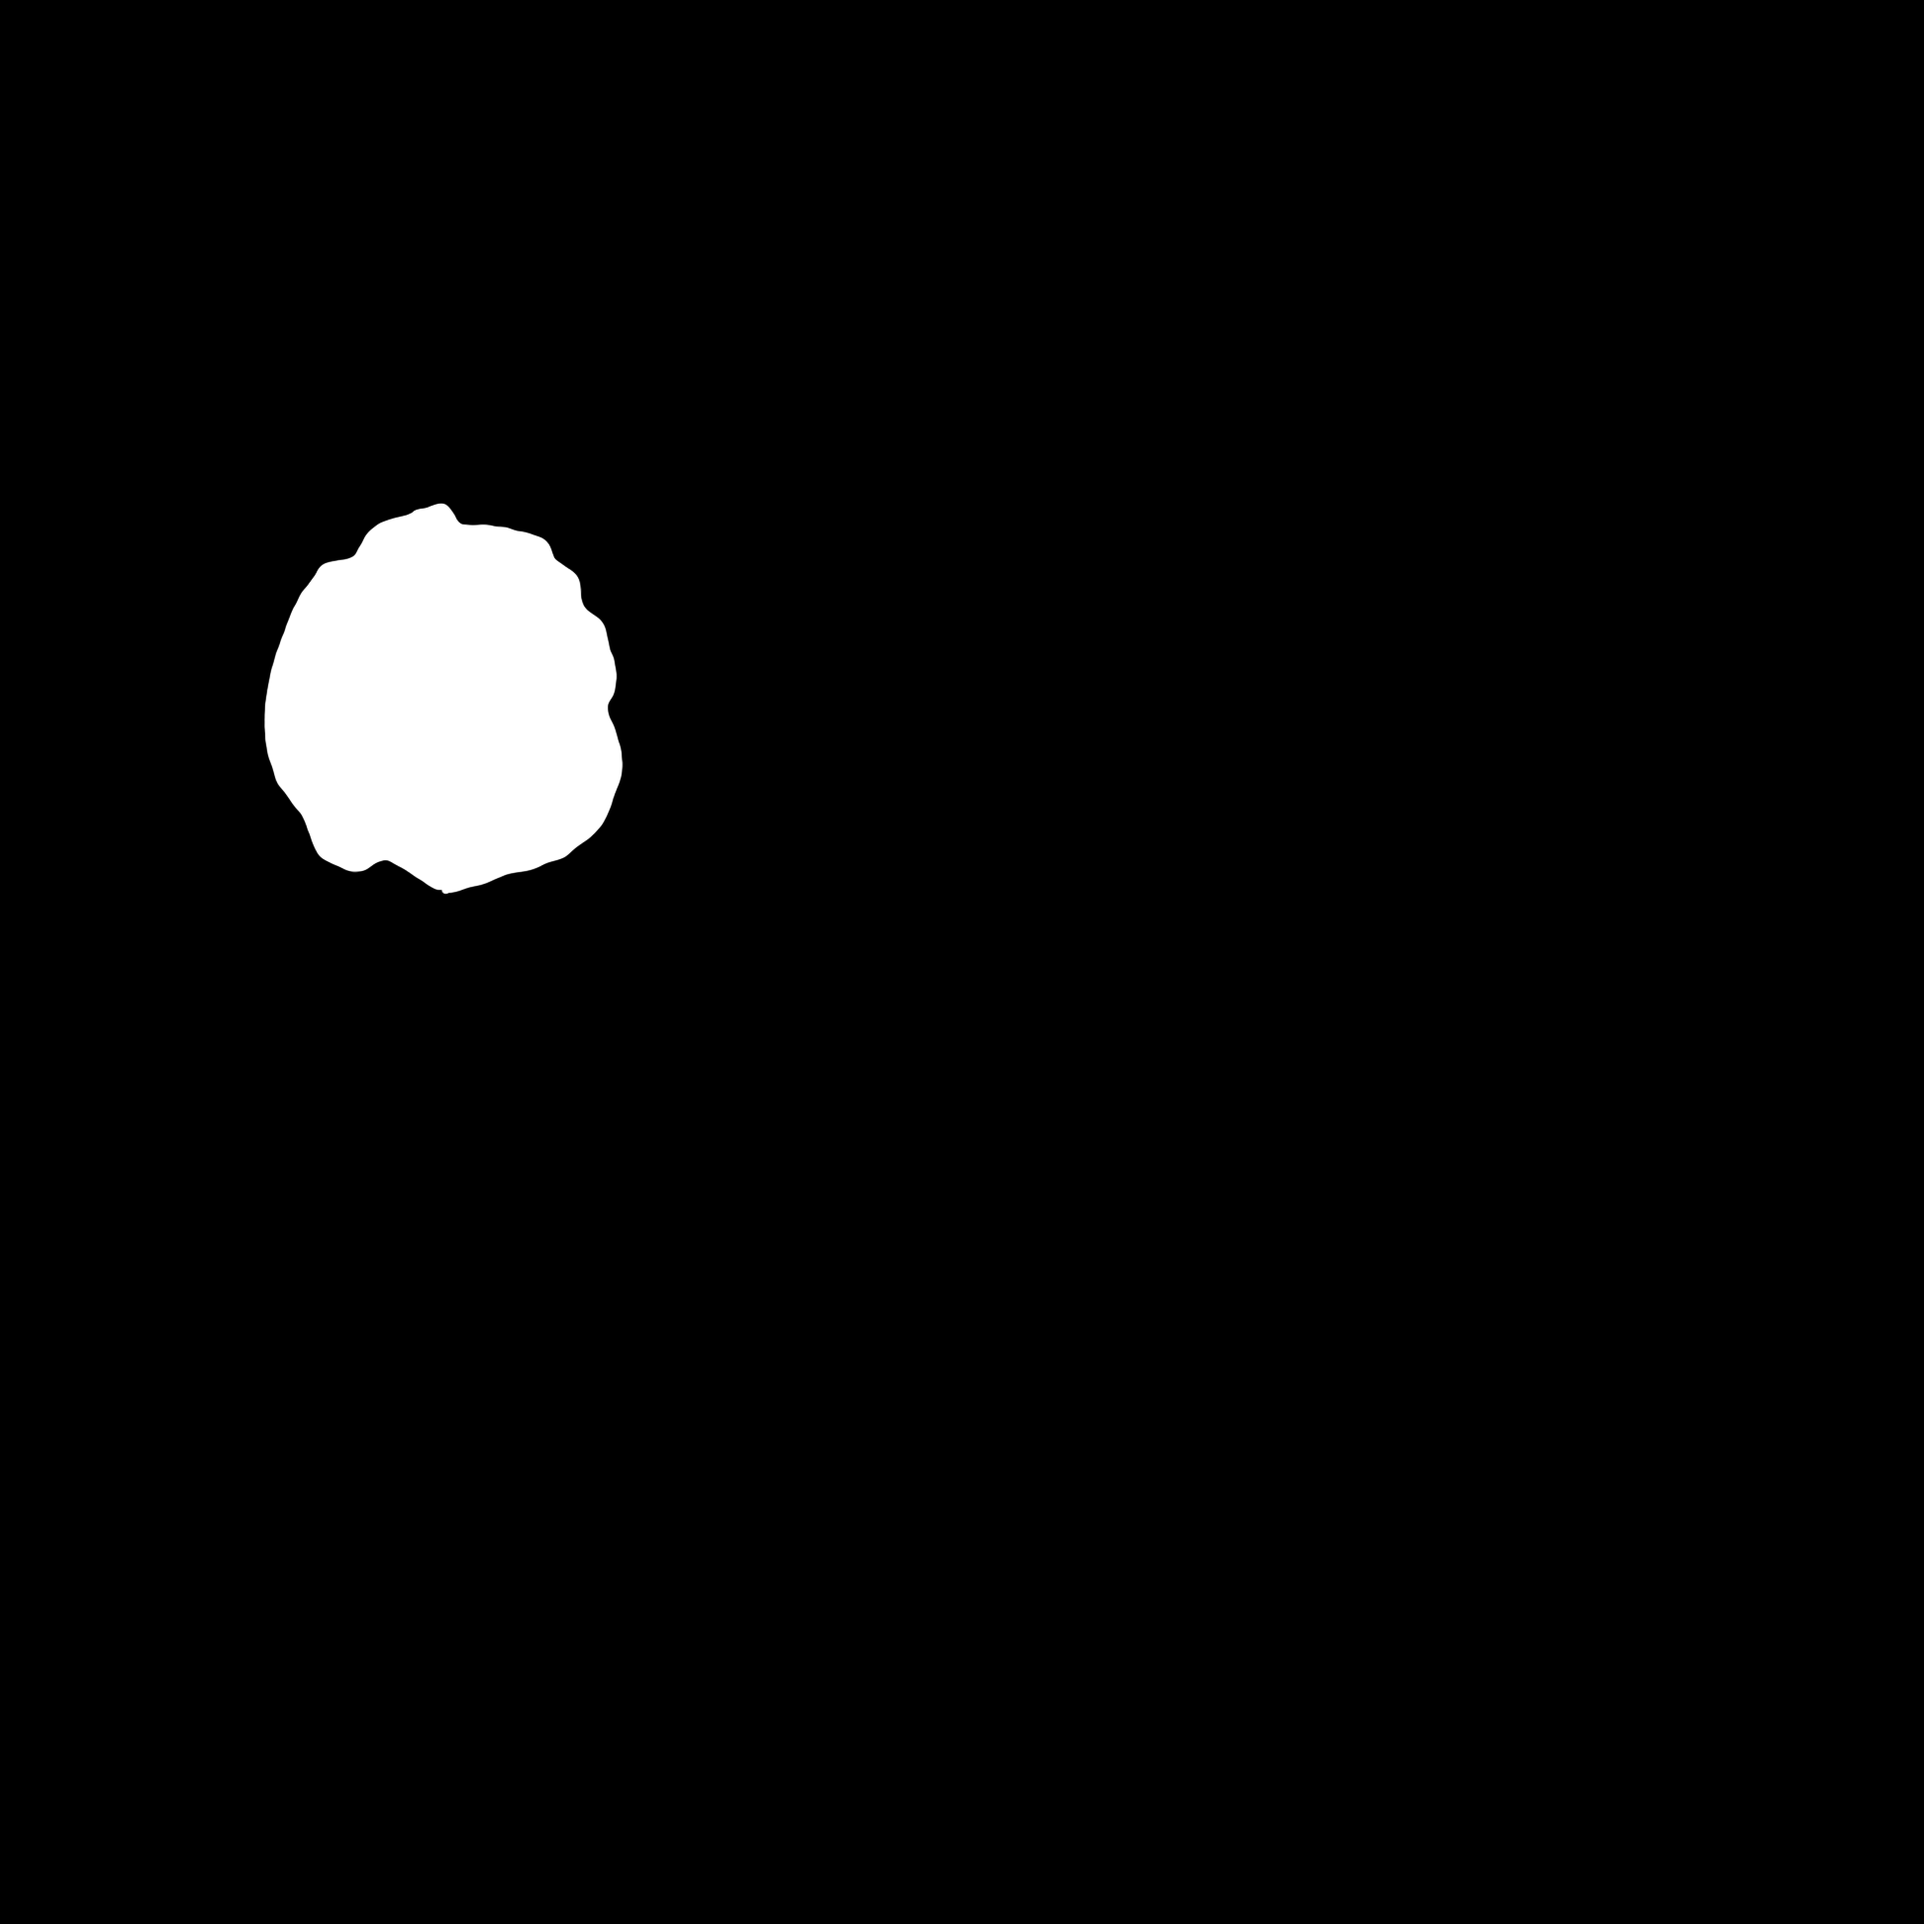
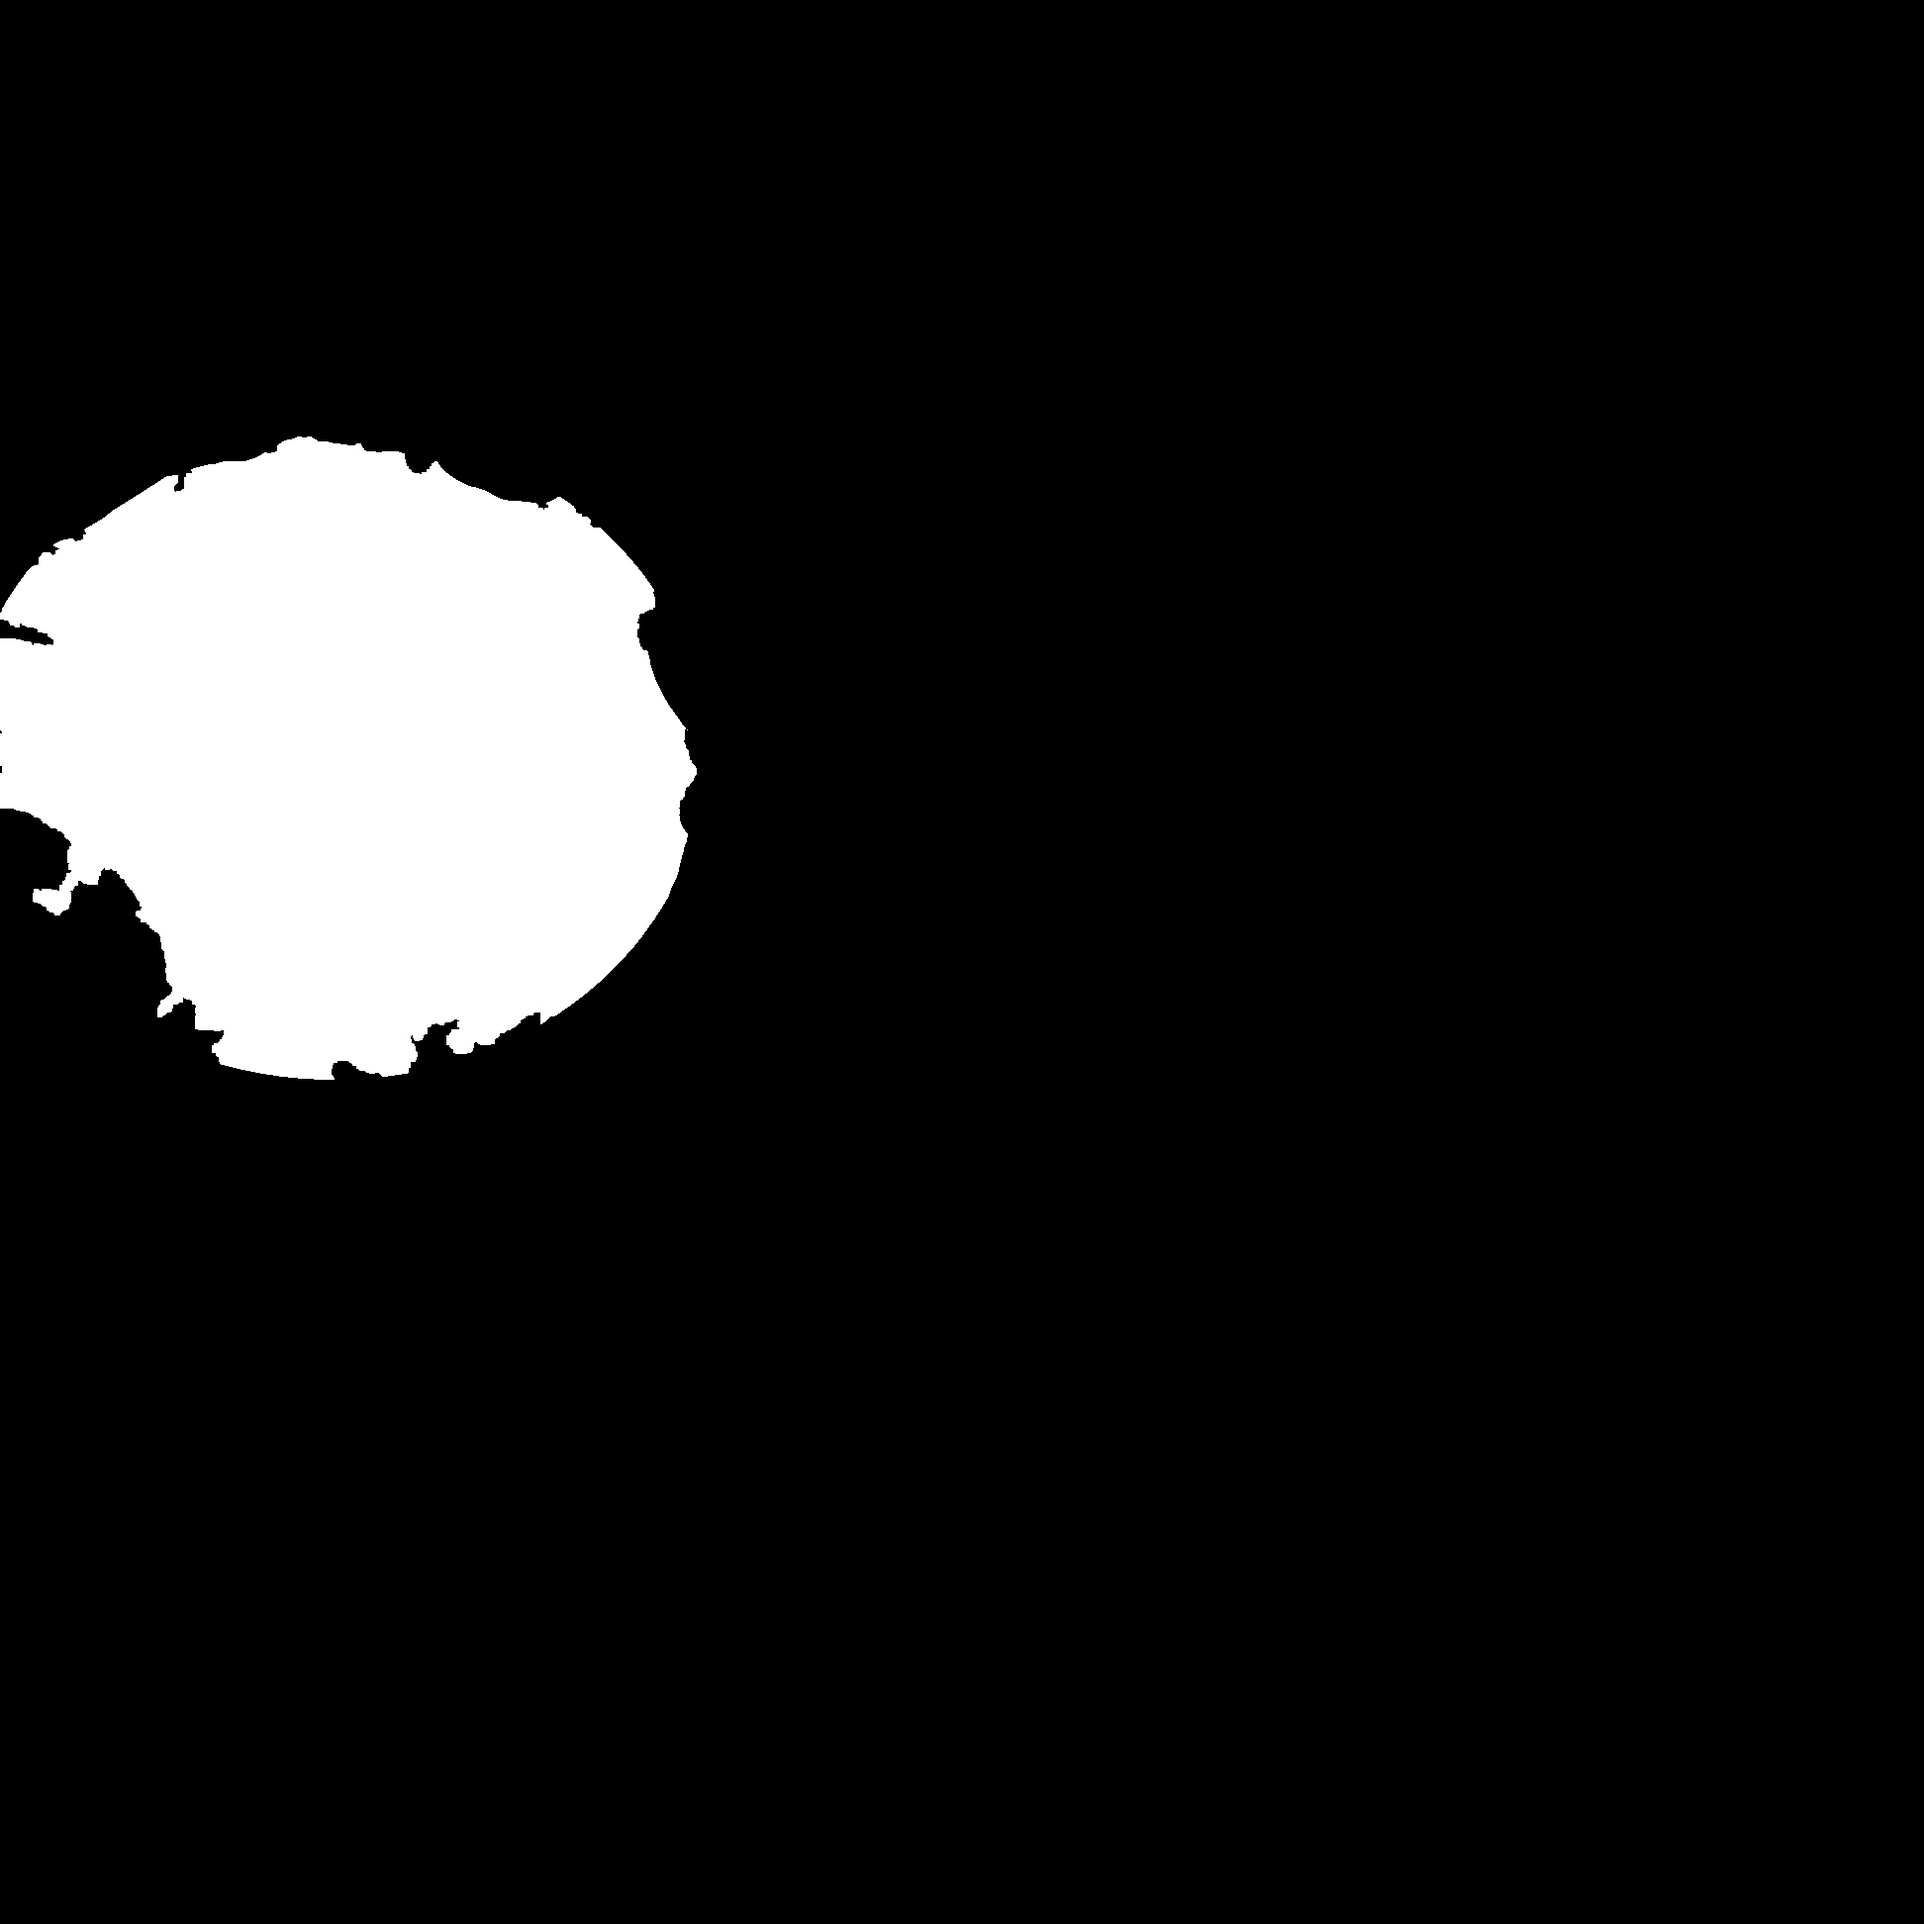
Verion 2 Fixed

Changed region(s): [[0.0, 0.216, 0.3704, 0.5864], [0.0, 0.463, 0.0309, 0.4938]]

diff --git a/V1.1.py b/V1.1.py
@@ -1,0 +1,124 @@
+import cv2
+import numpy as np
+import cvzone
+from cvzone.ColorModule import ColorFinder
+
+#Calculate the distance between two given points
+def distanceCalculate(p1, p2):
+    #p1 and p2 in format (x1,y1) and (x2,y2) tuples
+    dis = ((p2[0] - p1[0]) ** 2 + (p2[1] - p1[1]) ** 2) ** 0.5
+    return dis
+
+#Calculate de Center of a contour polygon
+def polygonCenter (contour):
+    peri = cv2.arcLength(contour, True)
+    approx = cv2.approxPolyDP(contour, 0.02 * peri, True)
+    x, y, w, h = cv2.boundingRect(approx)
+    cx, cy = x + (w // 2), y + (h // 2)
+    return cx, cy
+
+#Pre Process Method
+def coreIdentification(brgImg):
+    #Reding input image
+    img = cv2.cvtColor(brgImg, cv2.COLOR_BGR2GRAY)
+    #Apply threshold
+    ret1,th1 = cv2.threshold(img,0,255,cv2.THRESH_BINARY+cv2.THRESH_OTSU)
+    #Invert mask
+    th1 = cv2.bitwise_not(th1)
+    #Find contours
+    contours, hierarchy = cv2.findContours(th1, cv2.RETR_EXTERNAL, cv2.CHAIN_APPROX_NONE)
+    #Draw contours
+    cv2.drawContours(th1,contours, -1, color=(255,255,255),thickness=cv2.FILLED)
+    #Filter by area
+    minArea = 7000
+    for i in range(len(contours)):
+        cnt = contours[i]
+        area = cv2.contourArea(cnt)
+        if area < minArea:
+            cv2.drawContours(th1,contours,i,color=(0,0,0),thickness=cv2.FILLED)
+    #Update Contours
+    contours, hierarchy = cv2.findContours(th1, cv2.RETR_EXTERNAL, cv2.CHAIN_APPROX_NONE)
+    #Hough Transform to check roundiness
+    cores = cv2.HoughCircles(th1, cv2.HOUGH_GRADIENT, 1, 160, param1=50, param2=6, minRadius=110, maxRadius=120)
+    #Blank Mask
+    mask = np.zeros((1944,1944 , 1), dtype = np.uint8)
+    if cores is not None:
+        cores = np.uint16(np.around(cores))
+        for (x,y,r ) in cores[0,:]:
+            for i in range(len(contours)):
+                cnt = contours[i]
+                if 1 ==  cv2.pointPolygonTest(cnt,(x,y),False):
+                    cv2.drawContours(mask,contours,i,color=(255,255,255),thickness=cv2.FILLED)
+    #Update Contours
+    contours, hierarchy = cv2.findContours(mask, cv2.RETR_EXTERNAL, cv2.CHAIN_APPROX_NONE)
+    #GOTO: Cytoplasm Identification
+    cytoplasmIdentification(mask,brgImg)
+
+    #Cytoplasm Identification
+def cytoplasmIdentification (coreMask,brgImg):
+    #Writing the imge's HLS version
+    cv2.imwrite('hls.jpg',cv2.cvtColor(brgImg, cv2.COLOR_RGB2HLS))
+    myColorFinder = ColorFinder(False)
+    # Custom Color
+    hsvVals = {'hmin': 70 , 'smin': 0, 'vmin': 0, 'hmax': 150, 'smax': 200, 'vmax': 255}
+    #Color Detection
+    imgColor, mask = myColorFinder.update(cv2.imread('hls.jpg'),hsvVals)
+    #Finding Contours in the cytoplasm mask
+    contours, hierarchy = cv2.findContours(mask, cv2.RETR_EXTERNAL, cv2.CHAIN_APPROX_NONE)
+    #Cleaning the mask
+    minArea =7000
+    for i in range(len(contours)):
+        if cv2.contourArea(contours[i])<minArea:
+            cv2.drawContours(mask,contours,i,color=(0,0,0),thickness=cv2.FILLED)
+        else:
+            cv2.drawContours(mask,contours,i,color=(255,255,255),thickness=cv2.FILLED)
+    #Update Cytoplasm Contours
+    cytoCnts, cytoHierarchy = cv2.findContours(mask, cv2.RETR_EXTERNAL, cv2.CHAIN_APPROX_NONE)
+    #Update Core Contours
+    coreCnts, coreHierarchy = cv2.findContours(coreMask, cv2.RETR_EXTERNAL, cv2.CHAIN_APPROX_NONE)
+    #Blank mask
+    mask2 = np.zeros((1944,1944 , 1), dtype = np.uint8)
+    #Join the Masks
+    for i in range(len(cytoCnts)):
+        for j in range(len(coreCnts)):
+            if (distanceCalculate(polygonCenter(cytoCnts[i]),polygonCenter(coreCnts[j]))<400):
+                cv2.drawContours(mask2,cytoCnts,i,color=(255,255,255),thickness=cv2.FILLED)
+                cv2.drawContours(mask2,coreCnts,j,color=(255,255,255),thickness=cv2.FILLED)
+    #filtering the way too big contours detected
+    macpCnt, macpHierarchy = cv2.findContours(coreMask, cv2.RETR_EXTERNAL, cv2.CHAIN_APPROX_NONE)
+    for i in range(len(macpCnt)):     #328123
+        if(cv2.contourArea(macpCnt[i])>300000):
+            cv2.drawContours(mask2,macpCnt,i,color=(0,0,0),thickness=cv2.FILLED)
+        if(cv2.contourArea(macpCnt[i])<70000):
+            cv2.drawContours(mask2,macpCnt,i,color=(0,0,0),thickness=cv2.FILLED)
+    #TEST
+    cv2.imwrite('hlsTest.jpg',imgColor)
+    cv2.imwrite('CytoMask.jpg',mask2)
+    #GOTO Processing Images
+    processImage(mask2,brgImg)
+
+#Processing Images
+def processImage(mask, brgImg):
+    print('\n'+"Macrophages Identification V3")
+    #Finfing the Contours
+    imgContours, conFound =  cvzone.findContours(brgImg,mask,minArea=50000)
+    #Defining what will be a macophag for us
+    macrophages = 0
+    if conFound:
+        for contour in conFound:
+            macrophages+=1
+            peri = cv2.arcLength(contour['cnt'], True)
+            approx = cv2.approxPolyDP(contour['cnt'], 0.02 * peri, True)
+            area = contour['area']
+            center = contour['center']
+            print ("area: "+str(area)+'\n'+"center: "+str(center))
+    print("total detected: "+str(macrophages))
+    cv2.imwrite('Contours.jpg',imgContours)
+
+#HSV COLORS
+#L19_M1_C4.png
+#{'hmin': 0 , 'smin': 0, 'vmin': 0, 'hmax': 115, 'smax': 70, 'vmax': 255}
+#L3_M2_C12.png
+#hsvVals = {'hmin': 70 , 'smin': 0, 'vmin': 0, 'hmax': 150, 'smax': 200, 'vmax': 255}
+
+coreIdentification(cv2.imread('L3_M2_C12.png'))

diff --git a/MacrophagesIdentification.py b/MacrophagesIdentification.py
@@ -71,7 +71,7 @@ def cytoplasmIdentification (img, coreMask, coreImgColor, cores):
     myColorFinder = ColorFinder(False)
     # Custom Color
     #hsv(285, 20%, 86%)
-    hsvVals = {'hmin': 14, 'smin': 29, 'vmin': 60, 'hmax': 360, 'smax': 360, 'vmax': 360}
+    hsvVals = {'hmin': 14, 'smin': 29, 'vmin': 60, 'hmax': 360, 'smax': 255, 'vmax': 255}
     #Color Detection
     imgColor, mask = myColorFinder.update(img,hsvVals)
     cv2.imwrite('CytoplasmColored.jpg',imgColor)
@@ -117,63 +117,15 @@ def cytoplasmIdentification (img, coreMask, coreImgColor, cores):
         for j in range(len(contours)):
             #Cytoplasm center
             x, y = polygonCenter(contours[j])
-            if 200 > distanceCalculate((x,y),(cx,cy)):
+            print(distanceCalculate((x,y),(cx,cy)))
+            if 450 > distanceCalculate((x,y),(cx,cy)):
                 cv2.drawContours(mask2,contours,j,color=(255,255,255),thickness=cv2.FILLED)
                 cv2.drawContours(mask2,cores,i,color=(255,255,255),thickness=cv2.FILLED)
 
     cv2.imwrite('MacropMask.jpg',mask2)
 
     return mask2
-
-#Dynamic thresholding
-def dynamicThresholding ():
-    #Reding input image
-    img = cv2.imread('L19_M1_C2.png', cv2.IMREAD_GRAYSCALE)
-    #Apply threshold
-    ret1,th1 = cv2.threshold(img,0,255,cv2.THRESH_BINARY+cv2.THRESH_OTSU)
-    #Invert mask
-    th1 = cv2.bitwise_not(th1)
-    #Find contours
-    contours, hierarchy = cv2.findContours(th1, cv2.RETR_EXTERNAL, cv2.CHAIN_APPROX_NONE)
-    #Draw contours
-    cv2.drawContours(th1,contours, -1, color=(255,255,255),thickness=cv2.FILLED)
-    #Filter by area
-    minArea = 7000
-    for i in range(len(contours)):
-        cnt = contours[i]
-        area = cv2.contourArea(cnt)
-        if area < minArea:
-            cv2.drawContours(th1,contours,i,color=(0,0,0),thickness=cv2.FILLED)
-    #Update Contours
-    contours, hierarchy = cv2.findContours(th1, cv2.RETR_EXTERNAL, cv2.CHAIN_APPROX_NONE)
-    #Hough Transform to check roundiness
-    cores = cv2.HoughCircles(th1, cv2.HOUGH_GRADIENT, 1, 160, param1=50, param2=6, minRadius=110, maxRadius=120)
-    cores = np.uint16(np.around(cores))
-    #Blank Mask
-    mask = np.zeros((1944,1944 , 1), dtype = np.uint8)
-    for (x,y,r ) in cores[0,:]:
-        for i in range(len(contours)):
-            cnt = contours[i]
-            if 1 ==  cv2.pointPolygonTest(cnt,(x,y),False):
-                cv2.drawContours(mask,contours,i,color=(255,255,255),thickness=cv2.FILLED)
-    #Update Contours
-    contours, hierarchy = cv2.findContours(mask, cv2.RETR_EXTERNAL, cv2.CHAIN_APPROX_NONE)
-
-
-    cv2.imwrite('thresholding.jpg',mask)
-    th2 = cv2.adaptiveThreshold(img,255,cv2.ADAPTIVE_THRESH_GAUSSIAN_C,cv2.THRESH_BINARY,11,2)
-    cv2.imwrite('adaptativeThresholding.jpg',th2)
-
-def hls():
-    img = cv2.imread('L19_M1_C2.png', 1)
-    cv2.cvtColor(img, cv2.COLOR_RGB2HLS)
-    Lchannel = img[:,:,1]
-    mask = cv2.inRange(Lchannel,250,255)
-    res = cv2.bitwise_and(img,img,mask=mask)
-    mask = cv2.inRange(img, np.array([0,250,0]), np.array([255,255,255]))
-    cv2.imwrite('hls.jpg',mask)
-
-
+    
 #Processing Images Method 1
 def processImage(imgPre, img):
     print('\n'+"Method 1")
@@ -221,7 +173,7 @@ def jaccardIndex(labeled, mask):
                 fn+=1
     print("VP = "+str(vp)+'\n'+"VN = "+str(vn)+'\n'+"FP = "+str(fp)+'\n'+"FN = "+str(fn))
     if((vp+fp+fn)==0):
-        print("Jaccard Index = "+str(ji))
+        print("Jaccard Index = 0")
         return 1
     ji = vp/(vp+fp+fn)
     print("Jaccard Index = "+str(ji))
@@ -232,20 +184,18 @@ def SorensenDiceCoeff (labeled, mask):
     coeff = 0
     vp = 0
     vn = 0
-    for i in range(len(labeled)):
-        for j in range(len(labeled[i])):
-            if (labeled[i,j]==255 and mask[i,j]==255):
-                vp+=1
-            if (labeled[i,j]==0 and mask[i,j]==0):
-                vn+=1
-    coeff = 2*(vn+vp)/2*len(labeled)*len(labeled[1])
+    intersection = np.sum(mask[labeled==255])*2.0
+    coeff= intersection/(np.sum(mask)+np.sum(labeled))
+    
     print("Sorensen-Dice Coefficient = "+str(coeff))
+    
     return coeff
 
 #Reading the Image from the local storage
+path = 'L3_M2_C13.png'
+
 start_time = time.time()
-#img = cv2.imread('L3_M2_C13.png',1)
-img = cv2.imread('F1.png',1)
+img = cv2.imread(path,1)
 
 #Preprocess Image - Core Identification (Part 1)
 coreMask, coreImgColor , cores = coreIdentification(img)
@@ -263,11 +213,17 @@ print("Segmentation Execution time:",execution_time)
 dynamicThresholding()
 hls()
 
+
+
 #start_time = time.time()
+#maskL=cv2.imread('Masks\\'+path,0)
+
+#maskM=cv2.imread("CytoCore.jpg", 0)
+
 #Metrics to measure masks
-#meanSquereError(labeled=mask,mask=mask)
-#jaccardIndex(labeled=mask,mask=mask)
-#SorensenDiceCoeff(labeled=mask,mask=mask)
+#meanSquereError(labeled=maskL,mask=maskM)
+#jaccardIndex(labeled=maskL,mask=maskM)
+#SorensenDiceCoeff(labeled=maskL,mask=maskM)
 
 #end_time = time.time()
 #execution_time2 = end_time - start_time

diff --git a/CloudVersion.py b/CloudVersion.py
@@ -171,8 +171,8 @@ def processImage(imgPre, img):
 
 #Reading the Image from the local storage
 start_time = time.time()
-#img = cv2.imread('L3_M2_C13.png',1)
-img = cv2.imread('F1.png',1)
+img = cv2.imread('L19_M1_C2.png',1)
+#img = cv2.imread('F1.png',1)
 
 #Preprocess Image - Core Identification (Part 1)
 coreMask, cores = coreIdentification(img)
